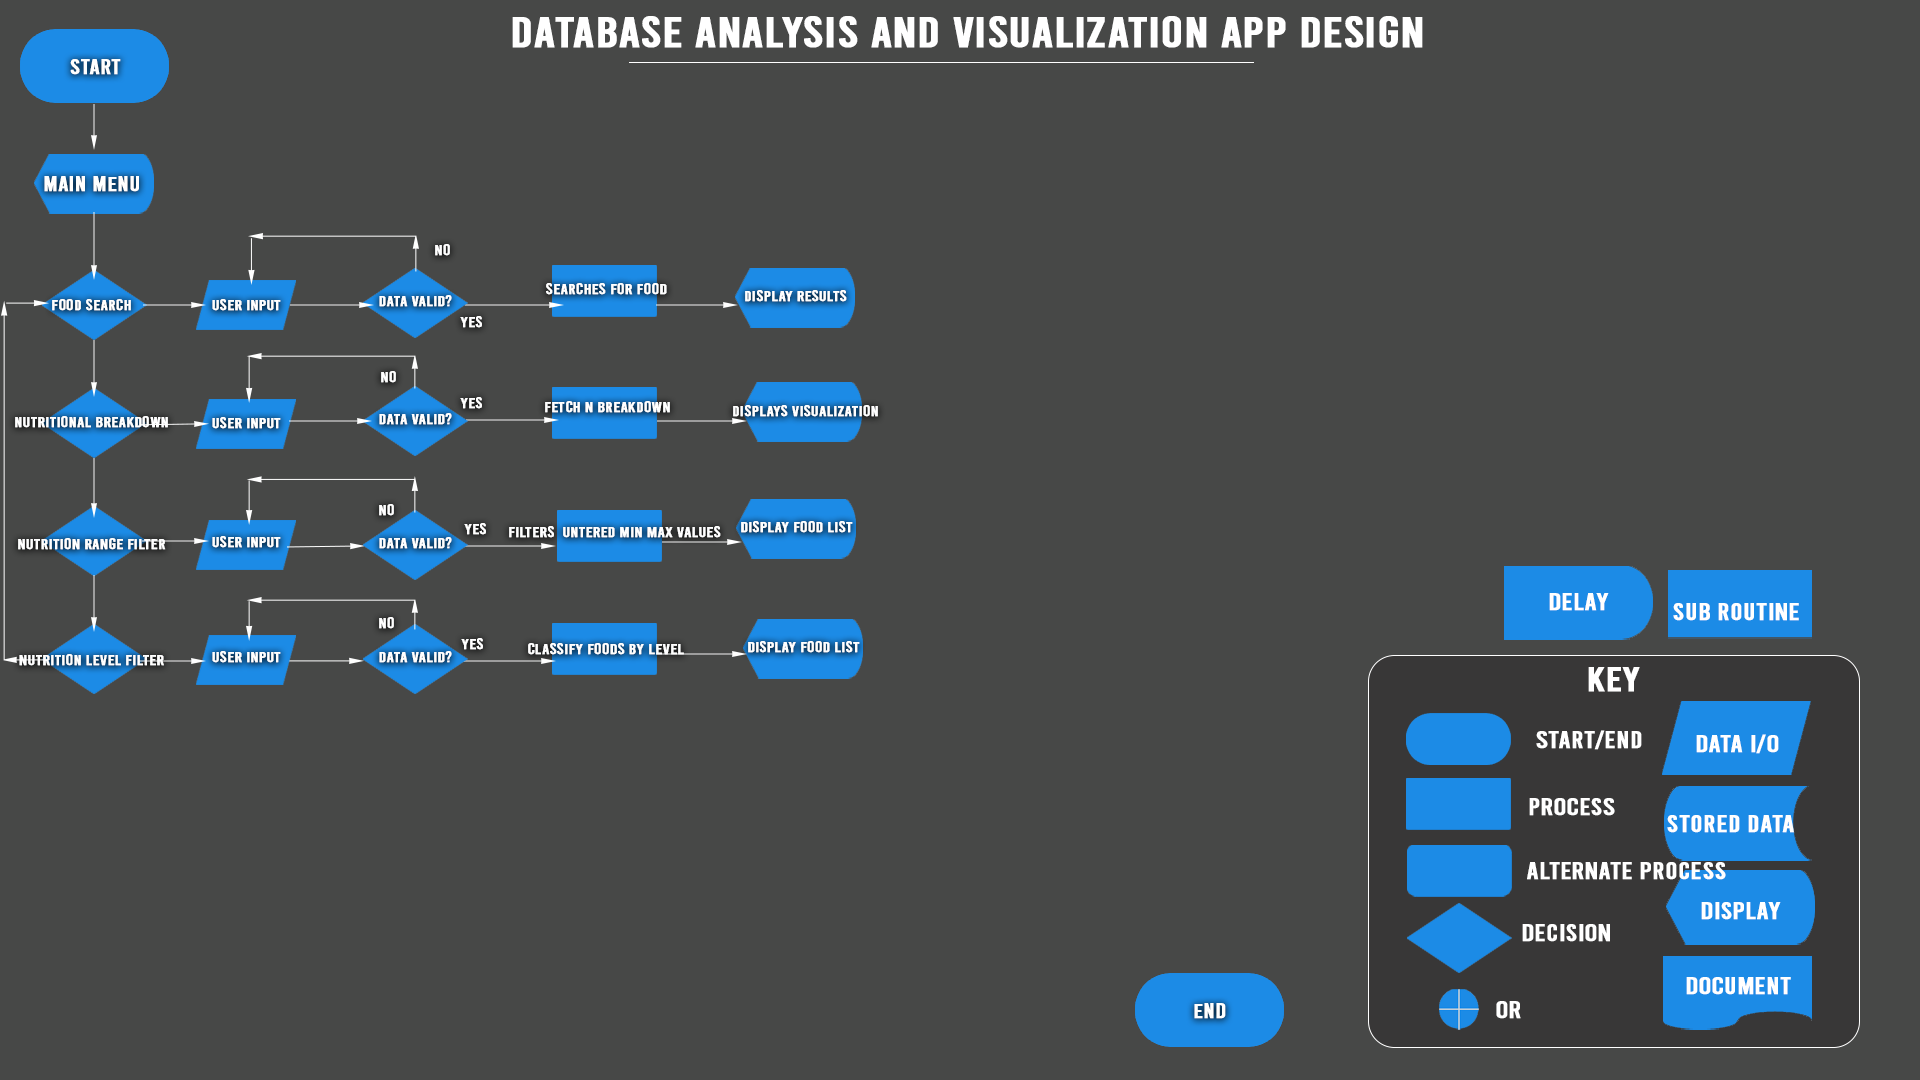
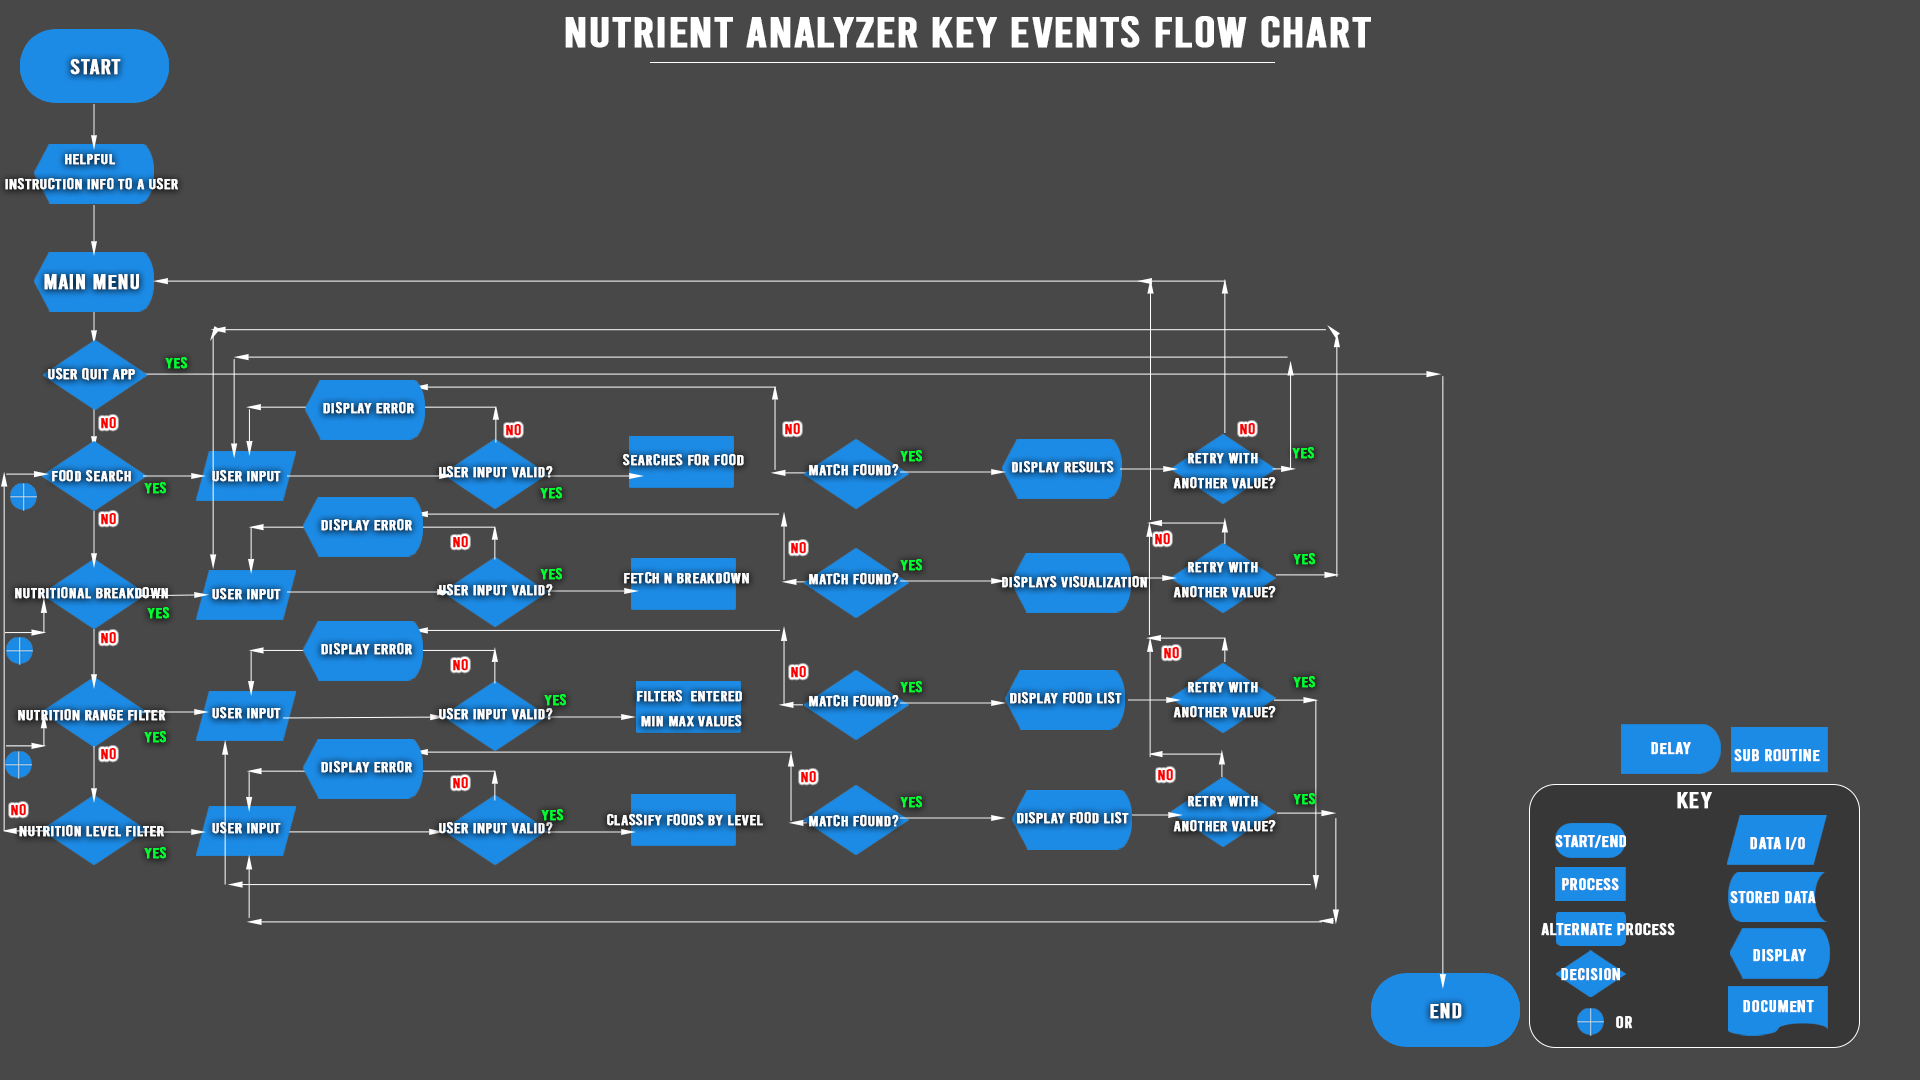
Updated draft 1 flowchart to include all key software features to a final version, Completed Draft version of Software Design Document Section 3.2.1 outlying all functions to support the key features of the software, currently a total of 6 functions. Included an update of SDD Section 3.2.2 of Data S

diff --git a/Software Design Document.md b/Software Design Document.md
@@ -9,7 +9,7 @@
 |----------------|---------------|
 | s5278432       | Simarjot Kaur |
 | s5330485       | Stephen Koech | 
-| s              | Harsh Patel   | 
+| s5376549       | Harsh Patel   | 
 
 
 <div style="page-break-after: always;"></div>
@@ -169,32 +169,172 @@ Include at least 5 use cases, each corresponding to a specific function.
 
 
 
-## 3.	Software Design and System Components 
+# 3.	Software Design and System Components 
 
-### 3.1	Software Design
-In the My Nutrition software's design, the below flowchart outlines a sequential progression of the steps and possibilities from start to end.
+## 3.1	Software Design
+In the Nutrient Analyzer System software's design, the below flowchart comprehensively and clearly outlines a sequential progression of the steps and operations in the software from start to end.
 
-Draft 1:  
-![Software Design](./software_design_flowchart.png)
+All Key Events Flowchart:  
+![Software Design](./Software_design_flowchart.png)
 
-### 3.2	System Components
+# 3.2	System Components
+The system components of the Nutrient Analyzer system covered in this section are:
+* The programming functions used to return a desired and expected result from a user input when interacting with the system according to its design.
+* The data structures used in this software during initialization to store properties of a function, addressing its type, where it has been used, and a list of functions that have used these data structures.
+* A detailed design of the functions mentioned according to their usages, outlined in a flowchart to demonstrate how they work by making use of the data structures.
 
-#### 3.2.1 Functions
-List all key functions within the software. For each function, provide:
-- Description: Brief explanation of the function’s purpose.
-- Input Parameters: List parameters, their data types, and their use.
-- Return Value: Describe what the function returns.
-- Side Effects: Note any side effects, such as changes to global variables or data passed by reference.
+## 3.2.1 Functions
+Below is a list and explanations of the key functions necessary to get the software functional in interacting with the database, the user and the functions to display the expected results.
+In each function, there is:
+- A description of the purpose of declaring the function,
+- The input parameters taken by the function which should be of a specific data type to prevent errors, 
+- The resulting value to be returned after the function has completed processing the input, and 
+- Any side effects that the function may have to other elements in the software in any way.
 
-#### 3.2.2 Data Structures / Data Sources
-List all data structures or sources used in the software. For each, provide:
+## 1. Function 1 searching for a food by its name:
+* ### <table><tr><td>   Function name: _search_food_by_its_name()_</td></tr></table>
 
-- Type: Type of data structure (e.g., list, set, dictionary).
-- Usage: Describe where and how it is used.
-- Functions: List functions that utilize this structure.
+1. Function's purpose:The above function takes in a value entered by a user and searches for a matching record against the food column in the database, then collects all the corresponding nutritional information of the entered food name.
 
-#### 3.2.3 Detailed Design
-Provide pseudocode or flowcharts for all functions listed in Section 3.2.1 that operate on data structures. For instance, include pseudocode or a flowchart for a custom searching function.
+
+2. Input parameters of the function: The function will take in the name of the food (food_name) of data type string, which will contain the name of the food to be searched. e.g ('peas canned') or ('cassava').
+
+
+3. Returned value: After taking in the parameter into the function, the returned value will be of data type dictionary, which will contain all the values of the food nutritional information. food_dictionary = {"food":"cassava", "caloric value": "51"}
+
+
+4. Side Effects:
+No any side affects
+
+## 2. Function 2 displays a visual representation of a selected food's nutritional breakdown:
+* ### <table><tr><td> display_all_nutritional_breakdown() </td></tr></table>
+
+
+1. Function's purpose: To take in the previously gathered nutritional information belonging to a specific food and returning a visual representation of its nutritional breakdown using a bar graph.
+
+
+2. The function will take in the dictionary data type from the preceding function search_food_by_its_name(), of example food_dictionary = {"food":"cassava", "caloric value": "51"} process it by reading the dictionary properties and returning a visualized overview of the gathered values.
+
+
+3. Return Value:
+Returns a pie chart or a bar graph to give a visual representation of the nutritional properties of the specific food.
+
+
+4. Side Effects:
+No side effects.
+
+## 3. Function 3 filters foods based on a selected nutrient value range (min-max)
+* ### <table><tr><td> filter_foods_by_nutrient_range() </td></tr></table>
+
+
+1. Function's purpose: To filter foods after a user makes a selection of a specific nutrient property of the food, and some value within a range.
+
+
+2. The function will only take in values of data type string, which will be from a drop down which is a selection option list of values from the database, while also providing an input field on the interface with a string data type restriction to narrow down the options from the drop down selection list. The second input parameter will be of a pair of float, which will be the minimum and maximum values (minimum_value) and (maximum_value). For example the first input will be "protein" and the second pair of input float types would be "7.8" and "30".
+
+
+3. The return value will be of a list data type that is now a filtered listing of only values that meet the above criteria.
+
+
+4. Side Effects:
+No side effects.
+
+
+## 4. Function 4 Calculates nutritional level in a nutritional property (low, mid, high)
+* ### <table><tr><td> calculate_nutrient_level() </td></tr></table>
+
+
+1. Function's purpose: This function will take in all the numeric values from a specific column and using this key:
+- low: less than 33% of the highest value,
+- mid: between 33% and 66% of the highest value,
+- high: greater than 66% of the highest value,
+
+will then determine whether to classify an input to either being one and only one of the three options.
+
+
+2. Input parameters: The function will take in a specific nutrient_name of type string, and all its numeric values in type float, to determine the highest value, then use it to classify whether the nutritional value of a specific food is either low, mid or high which will be returned in a tuple.
+
+
+3. The function will return a tuple (low, mid, high) which each represents the threshold category a food falls within.
+
+
+4. No side effects.
+
+
+## 5. Function 5 filters foods by selected levels (low, mid, high)
+* ### <table><tr><td> filter_foods_by_nutrient_level() </td></tr></table>
+
+
+1. **Function's purpose** and **input parameters:** to filter foods by the levels of their nutritional values. The levels will be determined by the function outlined above calculate_nutrient_level() that calculates the level and returns a tuple of either being low, mid or high. This will work by taking in all the name of the food from the user, and the nutritional content level of type string (low, mid or high) which can be provided by a dropdown select option on the filter page.
+
+
+2. Return value will be of type list, that will contain all foods fitting in the user selected parameters.
+
+
+3. No side effects.
+
+
+## 6. Function 6 nutritional density visualizer
+* ### <table><tr><td> nutritional_density_visualizer() </td></tr></table>
+
+
+1. Function's purpose: to take in food items from a user, check them in the database, calculate and display a visual representation of a food's nutritional density relative to the other selected foods.
+
+
+2. The function will take in a dictionary type for the food items, and their nutrition density values from the nutrition density column in the database as a float. 
+
+
+3. The returned result will be of a visual representation of the entered food name items, against each other's nutritional density score on a graph or pie chart,
+
+
+4. No side effects.
+
+
+## 3.2.2 Data Structures Used
+The section below contains a list of all the data structures to be used in the software, that correspond to support the functions defined in section 3.2.1 of the document.
+In each data structure, we outline the type, all its planned usages and  defined functions that use the data structure.
+
+
+### <table><tr><td> 1. Data Structure: for (Food name and its nutritional information) </td></tr></table>
+
+- Data structure type: List of dictionaries
+- Usage: This list holds each food item and its corresponding nutritional information. 
+- - Each dictionary type has been used to define a food item, with its properties from all other database columns such as "Saturated Fats,  Caloric Value, Fat, Sugars, Carbohydrates".
+
+- All defined functions using the dictionary data type:
+- - **search_food_by_name()**
+- - **filter_foods_by_nutrient_range()**
+- - **filter_foods_by_nutrient_level()**
+- - **calculate_nutrient_level()**
+- - **nutritional_density_visualizer()**
+
+### <table><tr><td> 2. Data Structure: for (Food selected and its nutritional information) </td></tr></table>
+
+- Data structure type: a dictionary
+- Usage: When a user selects a specific food item, all the nutritional information is stored here.
+- All functions using dictionary data type:
+- - **display_all_nutritional_breakdown()**
+
+### <table><tr><td> 3. Data Structure: for (storing already calculated nutrient threshold) </td></tr></table>
+
+- Data structure type: Tuple
+- Usage: It has been used to store the levels of a food nutrient level (which can either be low, mid or high)
+- All functions using tuple data type:
+- - **calculate_nutrient_level()**
+- - **filter_foods_by_nutrient_level()**
+
+### <table><tr><td> 4. Data Structure: for (storing already calculated min or max value of a calculated nutrient range) </td></tr></table>
+
+- Data structure type: Tuple
+- Usage: It has been used to store the levels of a food nutrient level (which can either be low, mid or high)
+- Functions Using It:
+- - filter_foods_by_nutrient_range()
+
+# 3.2.3 Detailed Design
+Below is a flowchart to expound more on the functional process of each function we have outlined above in 3.2.1
+
+### 1. Function 1 Detailed design: _search_food_by_its_name()_
+
 
 
 ## 4. User Interface Design
